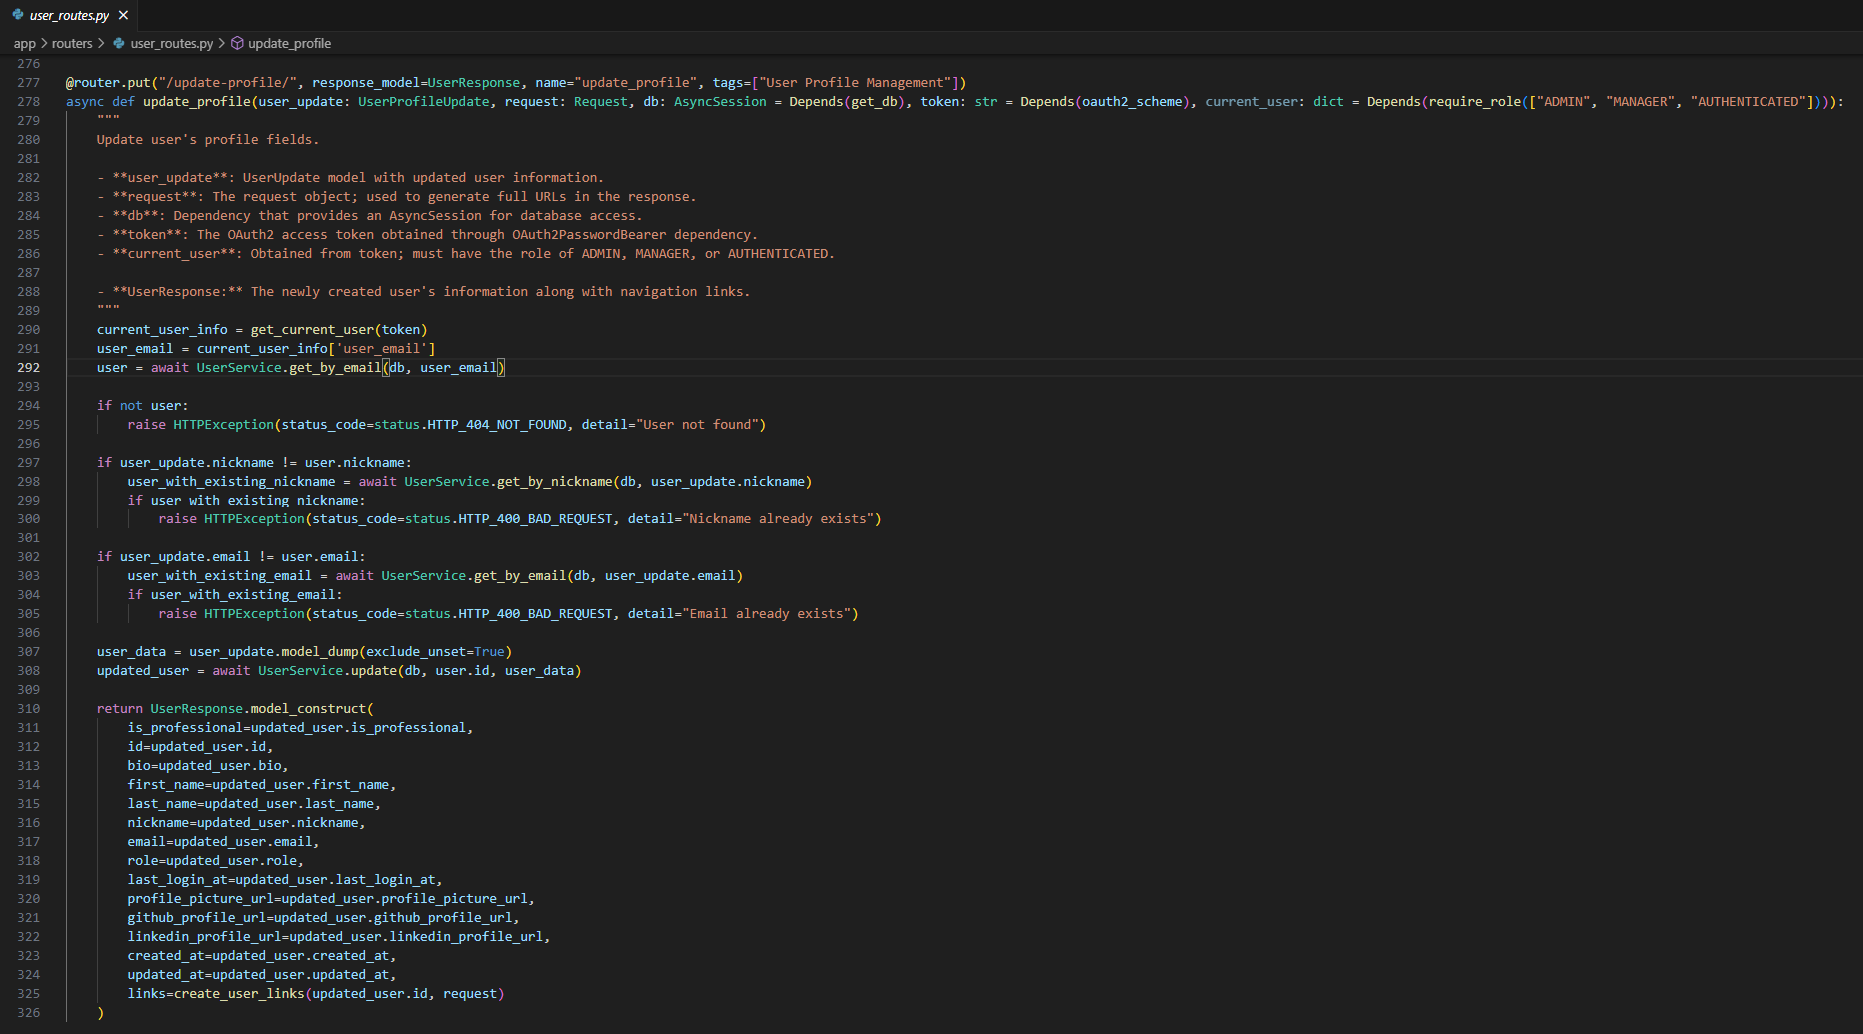
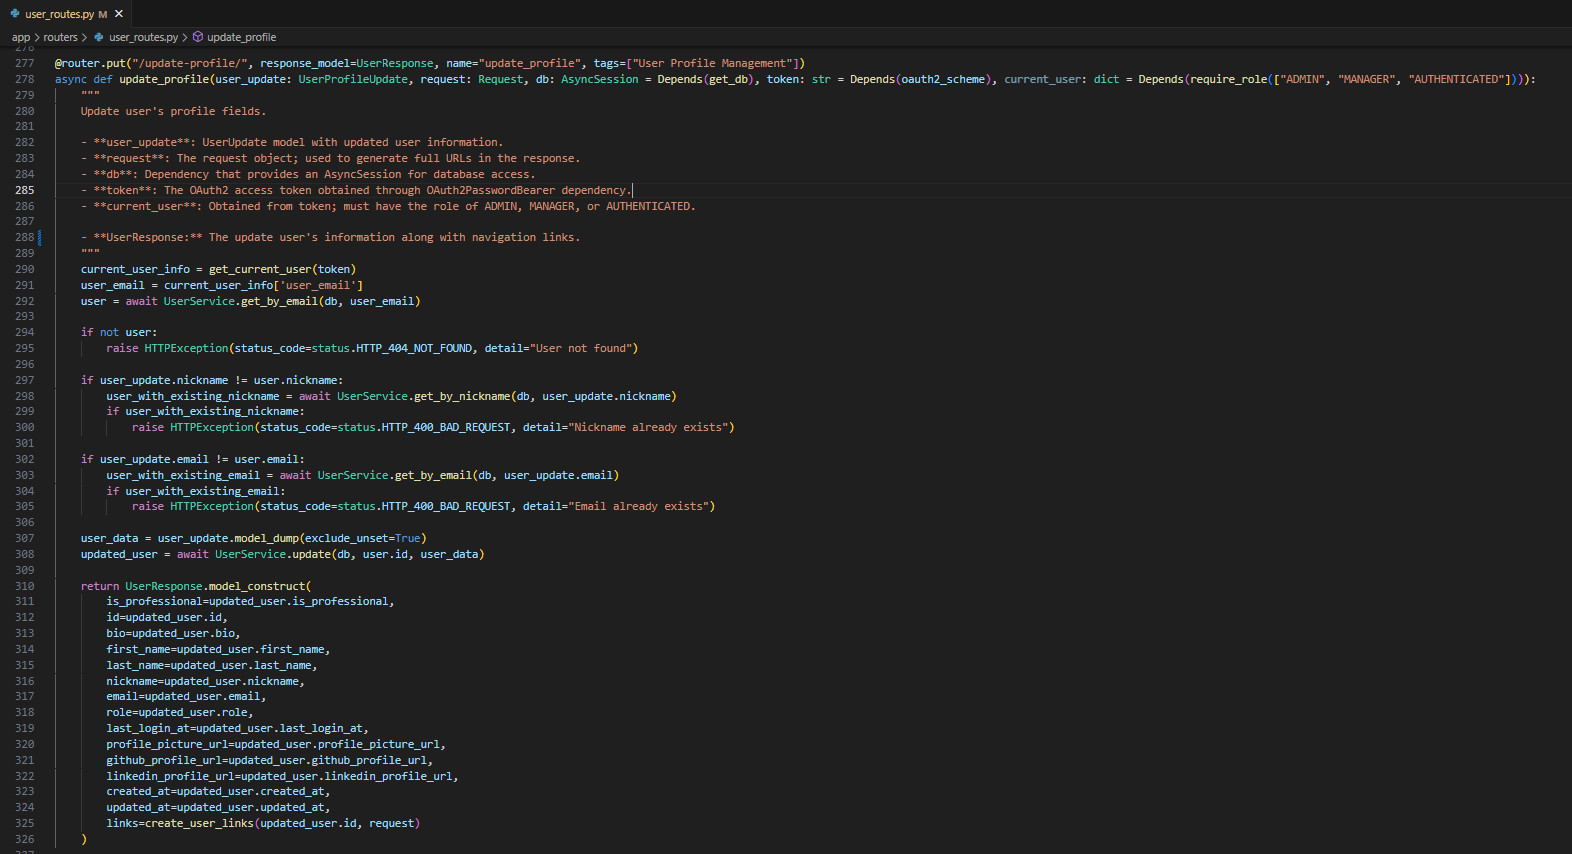
Fixed Typo in Update User Profile Description

Changed region(s): [[0.0, 0.0, 0.9975, 1.0]]

diff --git a/app/routers/user_routes.py b/app/routers/user_routes.py
@@ -285,7 +285,7 @@ async def update_profile(user_update: UserProfileUpdate, request: Request, db: A
     - **token**: The OAuth2 access token obtained through OAuth2PasswordBearer dependency.
     - **current_user**: Obtained from token; must have the role of ADMIN, MANAGER, or AUTHENTICATED.
 
-    - **UserResponse:** The newly created user's information along with navigation links.
+    - **UserResponse:** The update user's information along with navigation links.
     """
     current_user_info = get_current_user(token)
     user_email = current_user_info['user_email']
